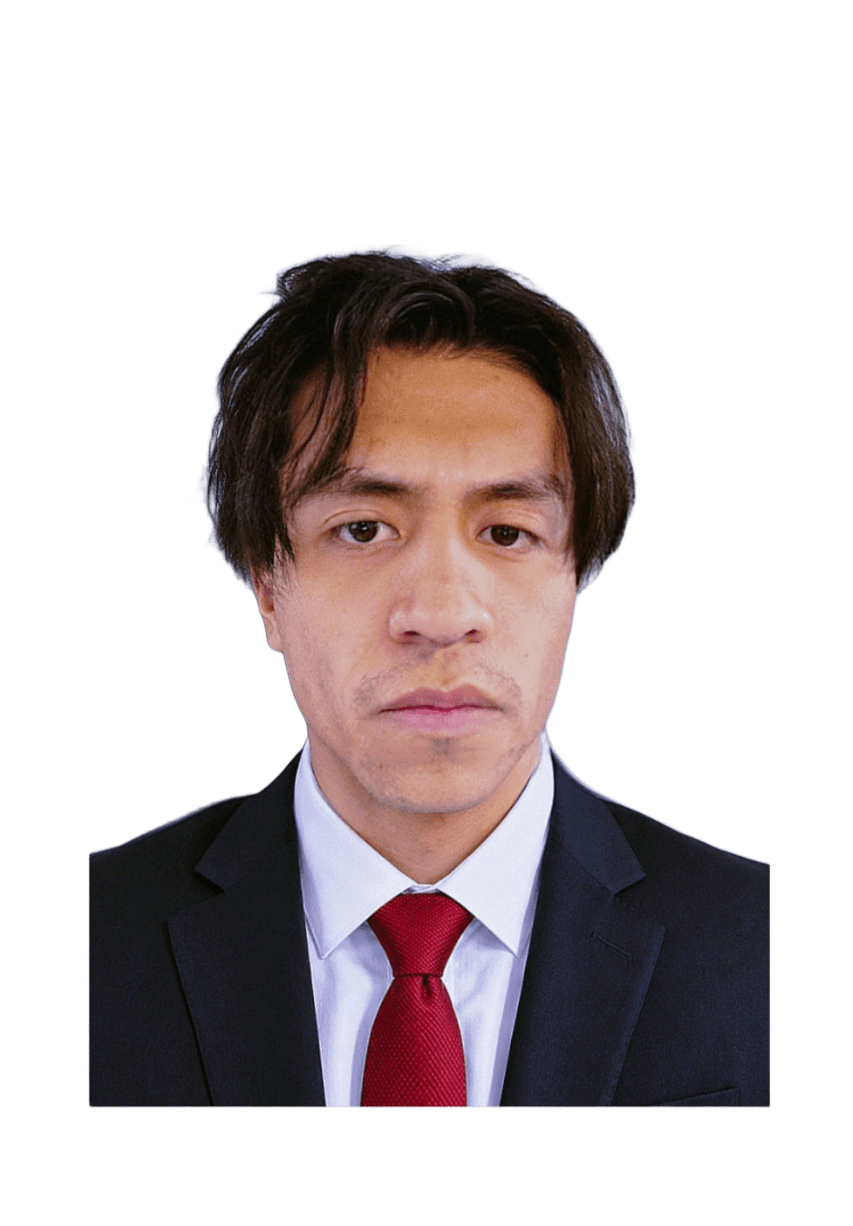
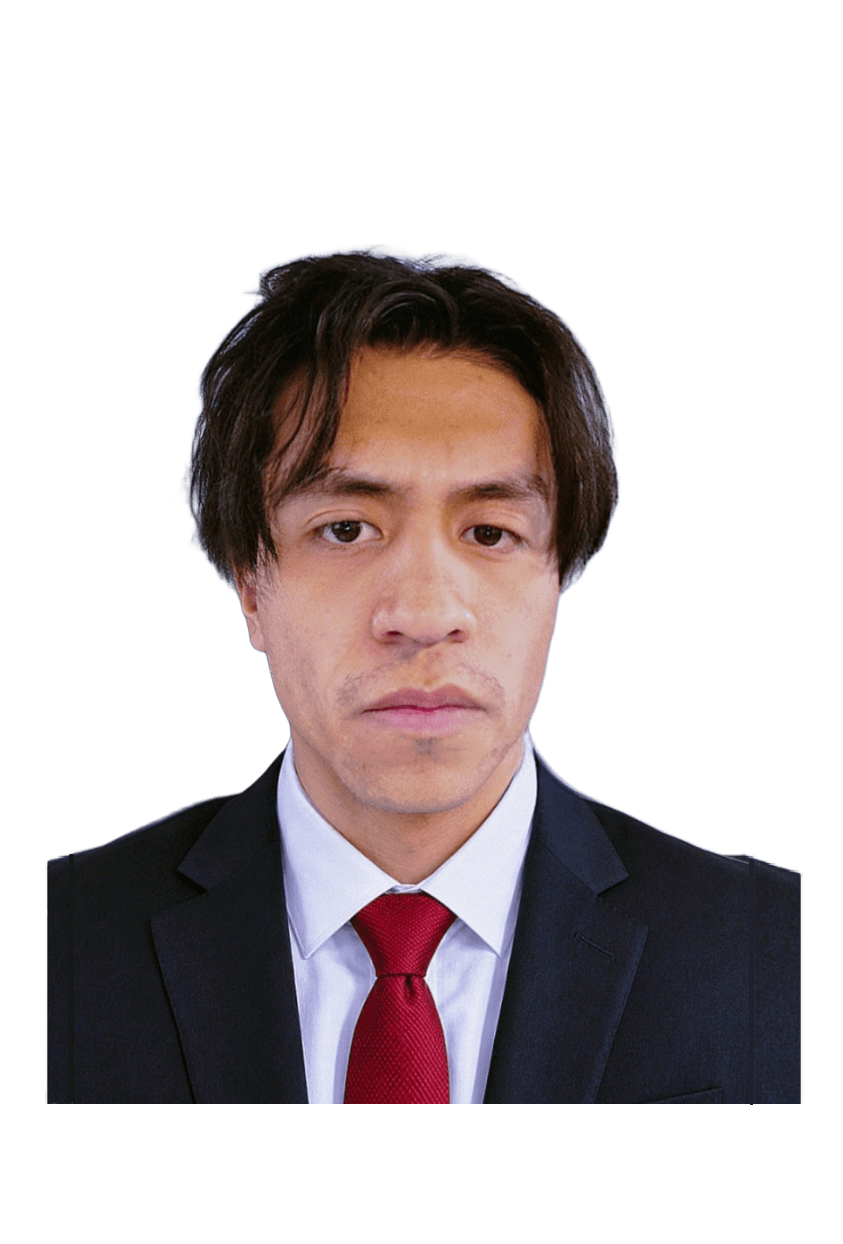
cm

diff --git a/src/App.css b/src/App.css
@@ -1198,7 +1198,7 @@ body.dark-mode .photo-placeholder:hover {
   height: 7px;
   background: rgba(37, 99, 235, 0.2);
   border-radius: 3px;
-  margin-top: 32px;
+  margin-top: 36px;
   cursor: pointer;
   overflow: hidden;
   position: relative;
@@ -2539,9 +2539,13 @@ footer {
 }
 
 body:not(.dark-mode) .footer-clock__gif{
-  transform: scaleX(-1) scale(0.88);
+  transform: scaleX(-1) scale(0.87);
   filter: sepia(100%) hue-rotate(190deg) saturate(450%);
-  margin-top: -14px;
+}
+
+body:not(.dark-mode) .footer-clock__gif{
+  top: -16px !important; 
+  background-color: transparent;
 }
 
 .footer-clock__gif {
@@ -4336,6 +4340,7 @@ body.dark-mode .page-intro__description {
   line-height: 1.08;
 }
 
+
 .experience-section__eyebrow,
 .experience-card__period {
   font-family: var(--font-code);
@@ -4375,7 +4380,7 @@ body.dark-mode .page-intro__description {
 
 .experience-card.card {
   margin-bottom: 0;
-  overflow: visible;
+  overflow: hidden;
   display: grid;
   gap: 16px;
   padding: clamp(1.15rem, 2.5vw, 1.6rem);

diff --git a/src/index.css b/src/index.css
@@ -1040,13 +1040,13 @@ body.dark-mode .comment-success {
   position: absolute;
   top: 54px;
   right: 0;
-  margin: 14px;
+  margin-right: 14px;
   background: transparent;
   z-index: 10;
   padding: 0;
   overflow: hidden;
   animation: girarTuerca 6s ease-in-out infinite;
-
+margin-top: -6px;
 }
 
 

diff --git a/src/components/SidebarInfo.css b/src/components/SidebarInfo.css
@@ -1,6 +1,6 @@
 .photo-year-controls {
   position: absolute;
-  bottom: 18px;
+  bottom: -9px;
   left: 50%;
   z-index: 20;
   display: grid;